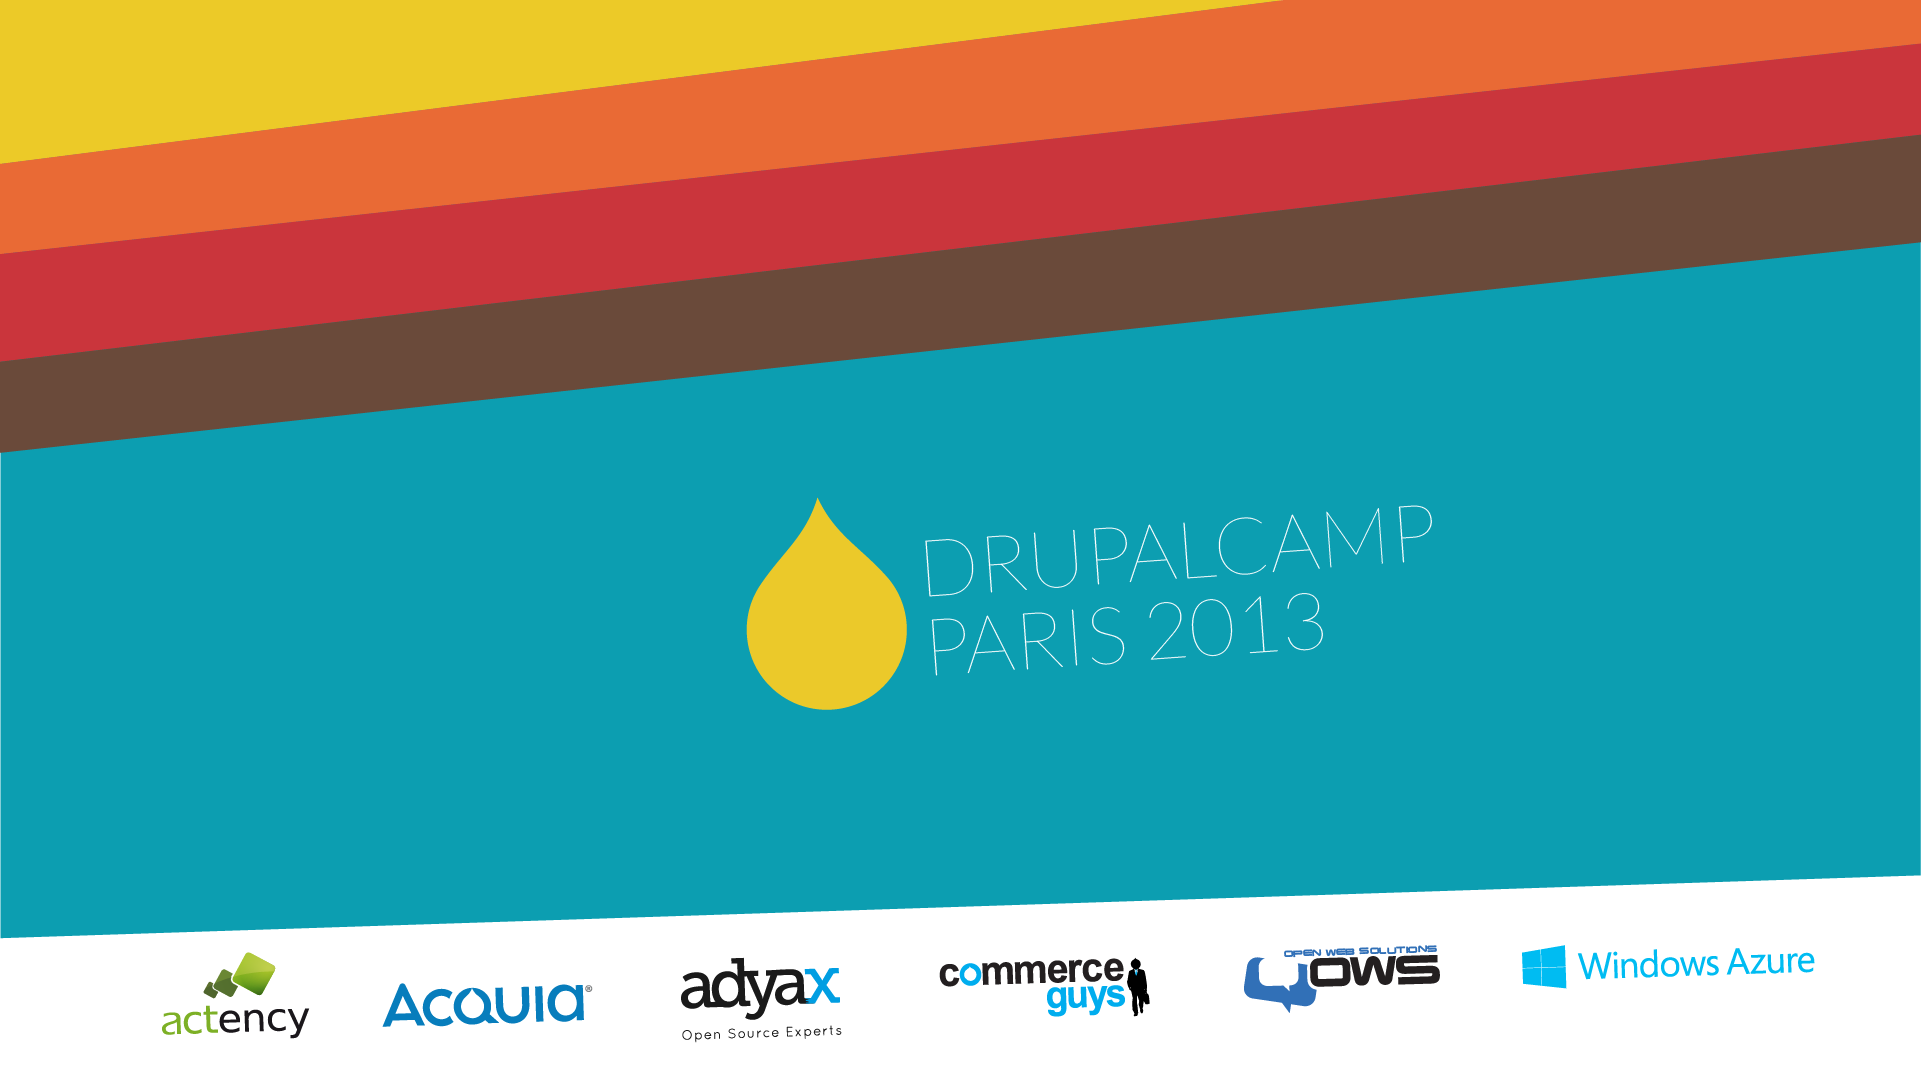
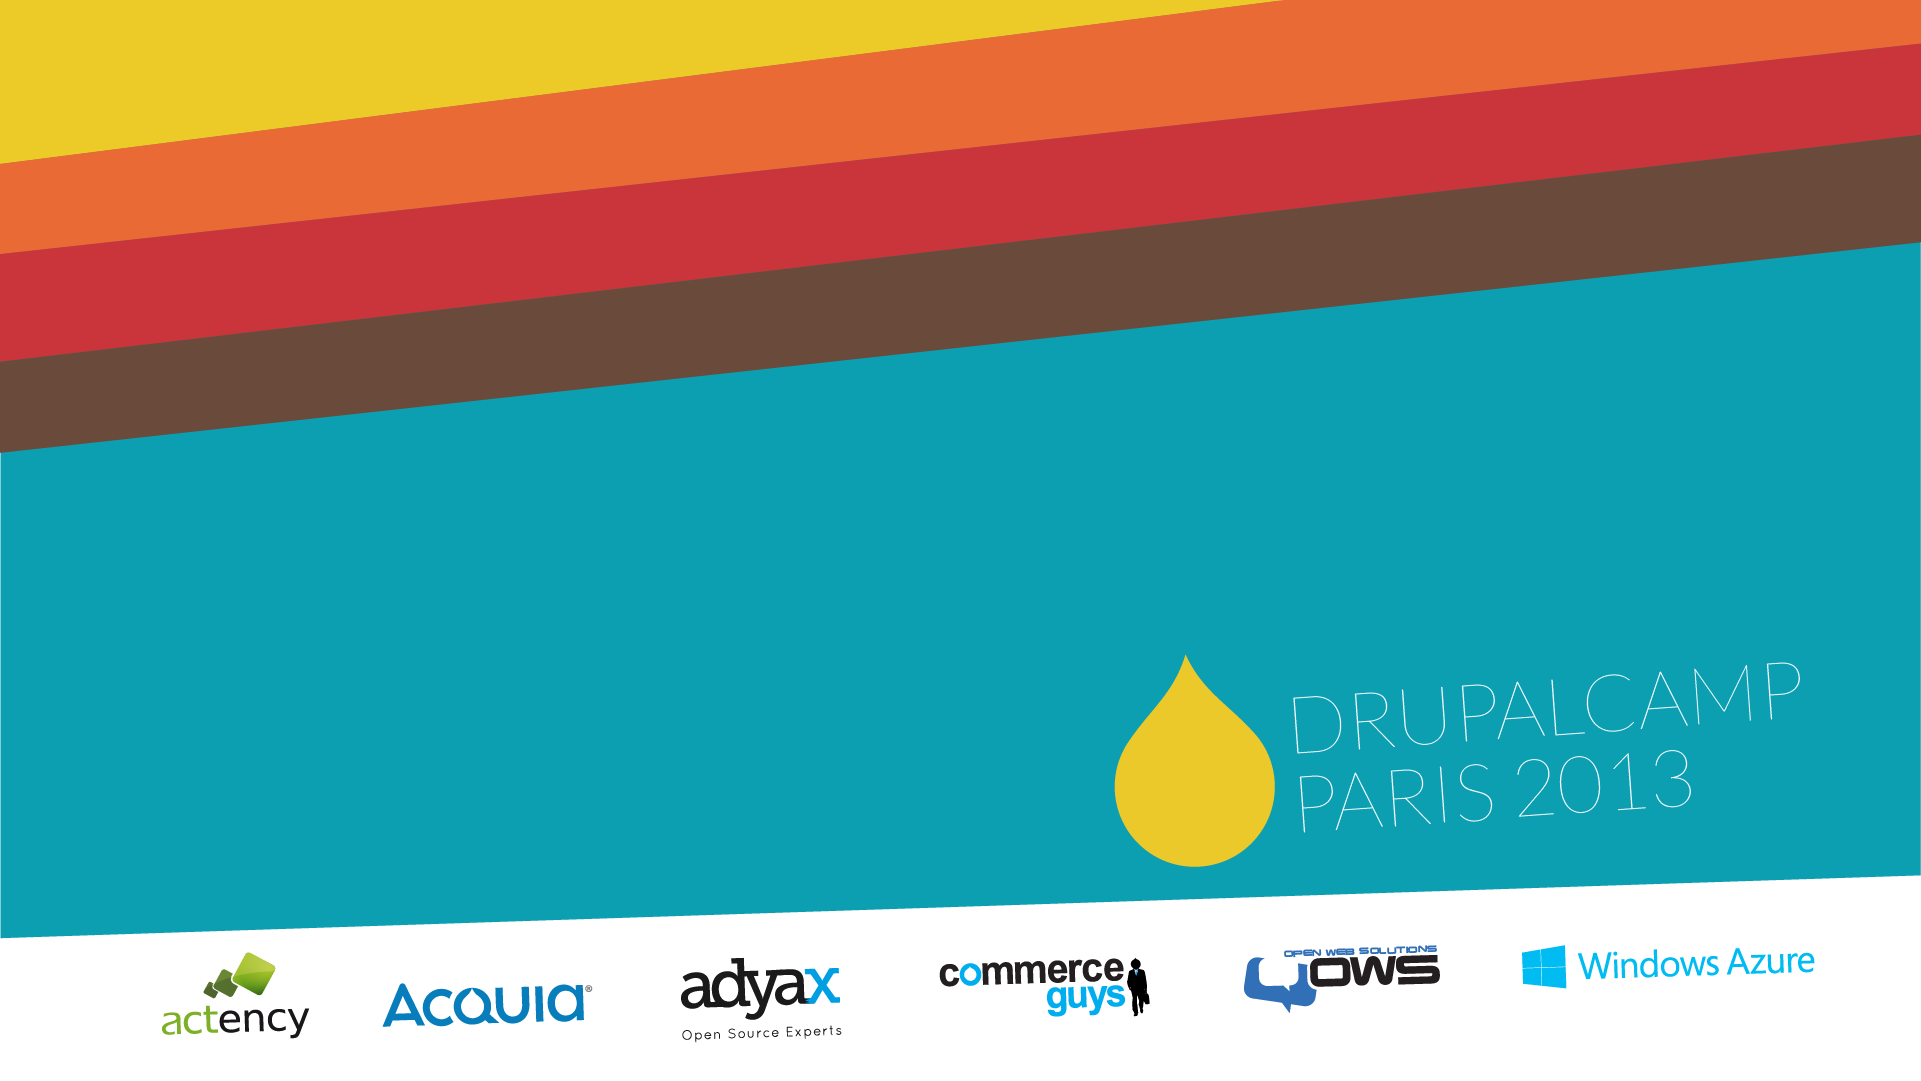
Full screen intro slide.

diff --git a/css/custom.css b/css/custom.css
@@ -28,6 +28,43 @@
   width:100%;
 }
 
+/* ************ INTRO ************ */
+#intro {
+/*  background:url(../img/intro.png);
+  width:1921px;
+  height:1081px;*/
+}
+
+.intro .reveal .slides {
+  width:100% !important;
+  height:100% !important;
+  zoom:1 !important;
+  top:0 !important;
+  left:0 !important;
+  bottom:0 !important;
+  right:0 !important;
+  transform:none !important;
+
+}
+.intro .reveal .slides #intro {
+  top:0 !important;
+  left:0 !important;
+  bottom:0 !important;
+  right:0 !important;
+  padding:0;margin:0;
+  background: #fff;
+}
+.intro #intro img {
+  margin:0;
+  background:0;
+  max-width:100%;
+  max-height:100%;
+  position:relative;z-index:10;
+  border:0;
+  box-shadow:none;
+}
+.intro #footer {display:none;}
+
 /* ************ HOME ************ */
 
 

diff --git a/index.html b/index.html
@@ -31,7 +31,11 @@
 		<div class="reveal">
 			<!-- Any section element inside of this container is displayed as a slide -->
 			<div class="slides">
-				<section id="home" style="background-image: 'img/intro.png';">
+        <section id="intro" data-state="intro">
+          <img src="img/intro.png" />
+        </section>
+
+				<section id="home">
 					<h1>{{ <span>Twig</span> }}</h1>
 					<h2>#dcparis13</h2>
 				</section>
